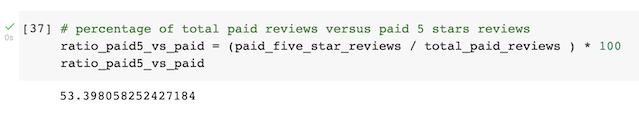
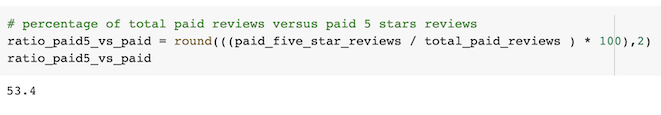
finalizing the written report

Changed region(s): [[0.0, 0.1565, 1.0, 0.6261], [0.0892, 0.7826, 0.3271, 0.8609], [0.0, 0.7304, 0.0595, 0.8348]]

diff --git a/README.md b/README.md
@@ -2,93 +2,118 @@
 Big Data
 
 
-## Project Overview
+## **Project Overview**
 
 
-## Results
+Analyze Amazon reviews written by members of the paid Amazon Vine program. The Amazon Vine program is a service that allows manufacturers and publishers to receive reviews for their products. Companies like SellBy pay a small fee to Amazon and provide products to Amazon Vine members, who are then required to publish a review.
 
-### Total Reviews
+Out of a list of 50 different datasets, the Outdoor Reviews was the one chosen for this analysis, where the goal is to determine if having a paid Vine review makes a difference in the percentage of 5-star reviews.
+
+
+
+## **Soulution Design**
+
+### **Deliverable 1**
+
+- Perform ETL on Amazon Product Reviews;
+    - Pick a dataset from the Amazon Review datasets;
+    - Create a new Google Colab Notebook;
+    - Using PySpark:
+        - Read in a CSV file;
+        - Extract the dataset into a DataFrame;
+        - Use its methods and functions to perform ETL;
+        - Transform the DataFrame into four separate DataFrames that match the table schema in pgAdmin;
+    - Create an AWS RDS database;
+    - Upload the transformed data into the appropriate pgAdmin tables; 
+    - Run queries using PostgreSQL in pgAdmin to confirm that the data has been uploaded.
+
+### **Deliverable 2**
+- Determine Bias of Vine Reviews;
+    - Create a new Google Colab Notebook as a Jupyter Notebook file;
+    - Read in a CSV file into a Jupyter Notebook through Googgle Colaboratory;
+    - Use the same dataset used for deliverable 1.
+    - Using PySpark:
+        - Read in a CSV file into a Jupyter Notebook through Googgle Colaboratory;
+        - Extract the dataset into a DataFrame;
+        - Retrieve all the rows on the DataFrame where the total_votes count is equal to or greater than 20, which are the ones more likely to be helpful;
+        - Create a new DataFrame out of the previous one to retrieve all the rows where the number of helpful_votes divided by total_votes is equal to or greater than 50%.
+        - Create a new DataFrame out of the previous one that retrieves all the rows where a review was written as part of the Vine program (paid), vine == 'Y'.
+        - Create a new DataFrame to retrieve all the rows where the review was not part of the Vine program (unpaid), vine == 'N'.
+        - Determine the total number of reviews, the number of 5-star reviews, and the percentage of 5-star reviews for the two types of review (paid vs unpaid).
+        - Export the ipynb file, and save it to the GitHub repository.
+
+### ** Deliverable 3**
+    - Write a Report on the Analysis (README.md)
+
+
+## **Results**
+
+### **1. Total Amount of Reviews**
+
+- 37544
 
 ![total_reviews](./resources/total_reviews.png)
 
-How many Vine reviews and non-Vine reviews were there?
 
+### **2. Total Amount of Paid Reviews**
 
-### Total Paid Reviews
+- 103
+
 ![total_paid_reviews](./resources/total_paid_reviews.png)
 
 
-### Total Unpaid Reviews
+### **3. Total Amount of Unpaid Reviews**
+
+- 37441
+
 ![total_unpaid_reviews](./resources/total_unpaid_reviews.png)
 
 
-### Total 5 Stars Paid Reviews
-How many Vine reviews were 5 stars? 
+### **4. Total Amount of 5-Star Paid Reviews**
+
+- 55
 
 ![paid_five_stars_reviews](./resources/paid_five_stars_reviews.png)
 
-### Total 5 Stars Unpaid Reviews
+### **5. Total Amount of 5-Star Unpaid Reviews**
 
-How many non-Vine reviews were 5 stars?
+- 19737
 
 ![unpaid_five_stars_reviews](./resources/unpaid_five_star_reviews.png)
 
-### Percentage of 5 Stars Paid Reviews
+### **6. Percentage of 5-Star Paid Reviews**
 
-What percentage of Vine reviews were 5 stars?
+
 
 ![percentage_five_stars_paid](./resources/percentage_five_stars_paid.png)
 
-### Percentage of 5 Stars Unpaid Reviews
+### **7. Percentage of 5-Star Unpaid Reviews**
 
 What percentage of non-Vine reviews were 5 stars?
 
 ![percentage_five_stars_unpaid](./resources/percentage_five_stars_unpaid.png)
 
-### DataFrame Displaying the Results
+
+## **Summary**
+
+### **DataFrame Displaying the Results**
+
+The following Dataframe displays:
+    - Total Number of Reviews
+    - Total Number of 5-star reviews
+    - % of 5-star Unpaid Reviews (calculated by dividing the total number of unpaid 5-star reviews by the total number of 5-star reviews)
+    - % of 5-star Paid Reviews (calculated by dividing the total number of paid 5-star reviews by the total number of 5-star reviews)
+
 
 ![results_df](./resources/results_df.png)
 
-## Summary
+These results show that only 0.28% of the 5-star reviews came from paid ones, while 99.7% of them came from customers that do not participate on the Amazon Vine program, which says that the overall review score have little influence coming from paid 5-star reviews, but it does not tell if people that pay for the program give 5-star reviews or not.
 
 
-### Additional Analysis
+### **Additional Analysis**
 
+In order to further check for any bias towards 5-star paid reviews another calculation was performed, where it shows the ratio between the 5-star paid reviews and all the other paid reviews (1-star to 4-star).
 
 ![additional_analysis](./resources/additional_analysis.png)
 
-
-
-
-
-
-
-
-
-
-
-
-
-
-
-INSTRUCTIONS
--------------------------------------------------------------------------------------
-
-Overview of the analysis of the Vine program
-
-
-------------------------------
-
-
-Results: Using bulleted lists and images of DataFrames as support, address the following questions:
-
-How many Vine reviews and non-Vine reviews were there?
-How many Vine reviews were 5 stars? How many non-Vine reviews were 5 stars?
-What percentage of Vine reviews were 5 stars? What percentage of non-Vine reviews were 5 stars?
-
-
-
-------------------------------
-
-
-Summary: In your summary, state if there is any positivity bias for reviews in the Vine program. Use the results of your analysis to support your statement. Then, provide one additional analysis that you could do with the dataset to support your statement.
+The calculation resulted in 53.4% of the paid reviews are 5-star, while 46.6% of the paid reviews are among the 1-star to 4-star ones, meaning that there may be some bias on the reason why they are giving 5-star reviews since more than half of those are all 5-star.
